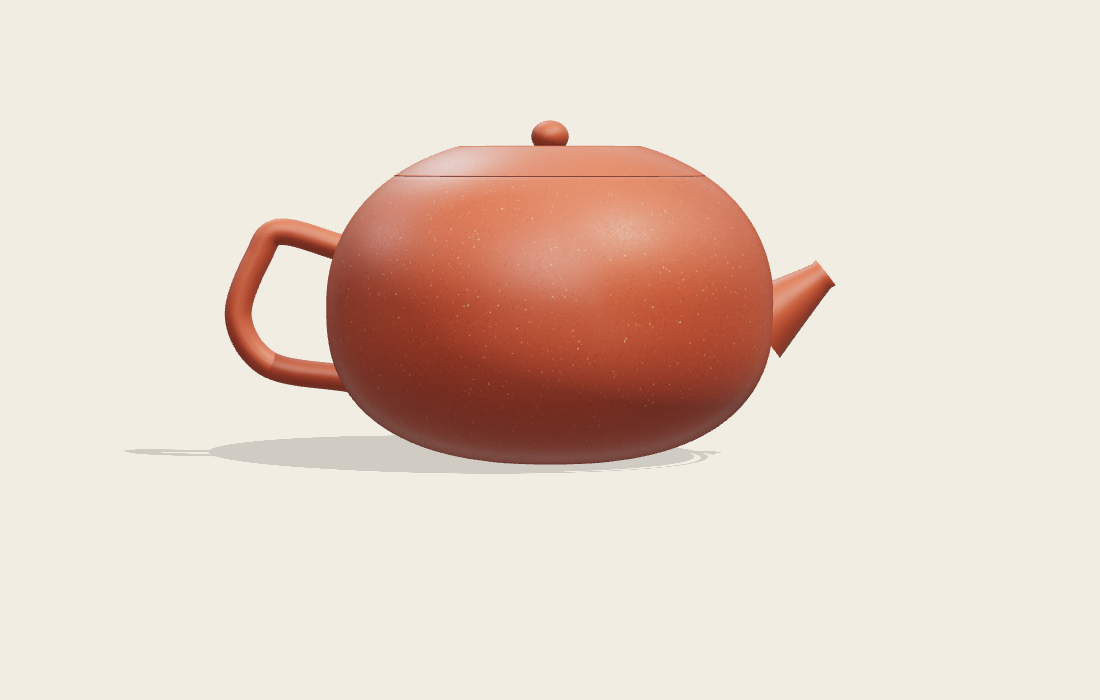
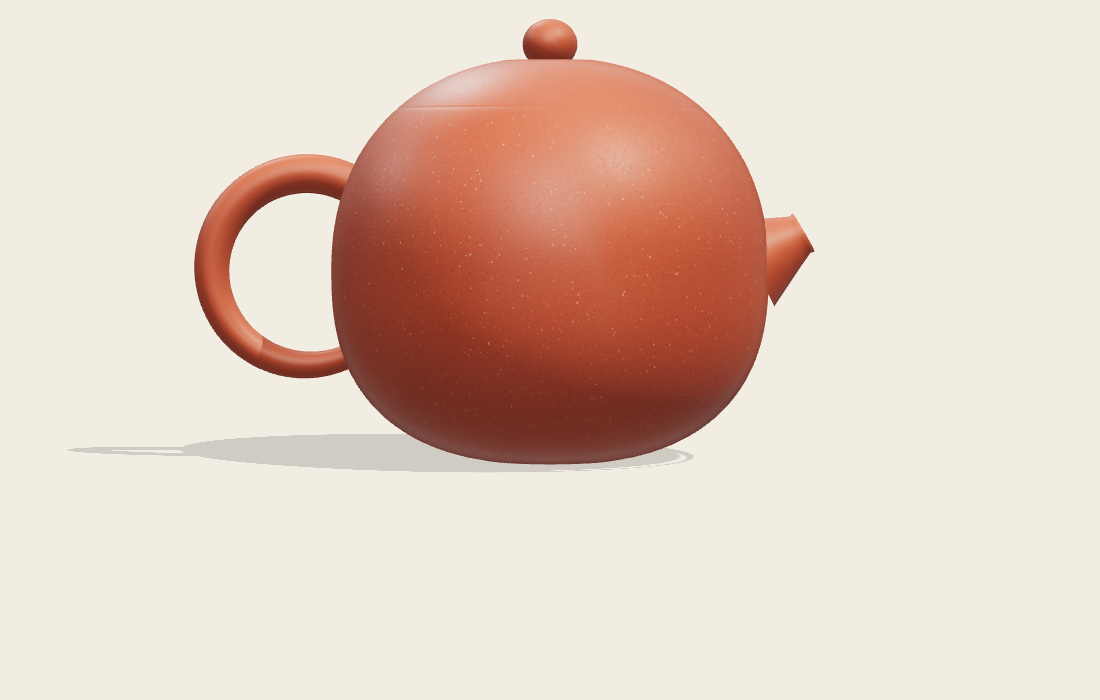
xishi: study real photographs, add the inverted-ear handle and a full 截盖 dome
Studied 倒把西施 photographs (zisha.com) against the canonical description
(截盖, 短流略粗, 倒耳把, 一捺底). Three features were wrong:

- the lid stopped short and left a flat top. It must run up the body's own
  curve until the ball is complete, converging to a neck the bead knob sits on;
  `rise` is now a fraction of the cap to the pole rather than an absolute height
- the spout was too long: shortened and thickened at the root
- the handle was the 石瓢 rear loop, which reads as a polyline. Added
  `invertedEar`: a true circular arc through the two attachments and the outer
  point, swept as a variable-radius tube (thick at the shoulder, tapering to the
  belly), so no straight segment can appear

Also fixed: the arc took the short way round, burying the handle inside the
body; and the body was too oblate (width/height 1.58 against about 1.25 in the
photographs).

Reference photographs kept in fit/refs/xishi/.

Claude-Session: https://claude.ai/code/session_01Au3NkrP4Zh9Vb2uEzJxxmj

diff --git a/src/components/handles.js b/src/components/handles.js
@@ -1,5 +1,51 @@
 import * as THREE from 'three'
 
+/** tube of varying radius along a curve (three's TubeGeometry is fixed-radius) */
+function sweptTube(curve, radiusAt, tubular = 72, radial = 16) {
+  const frames = curve.computeFrenetFrames(tubular, false)
+  const pos = [], nor = [], idx = []
+  for (let i = 0; i <= tubular; i++) {
+    const t = i / tubular
+    const P = curve.getPointAt(t)
+    const N = frames.normals[i]
+    const B = frames.binormals[i]
+    const r = radiusAt(t)
+    for (let j = 0; j <= radial; j++) {
+      const v = (j / radial) * Math.PI * 2
+      const sn = Math.sin(v), cs = -Math.cos(v)
+      const nx = cs * N.x + sn * B.x
+      const ny = cs * N.y + sn * B.y
+      const nz = cs * N.z + sn * B.z
+      nor.push(nx, ny, nz)
+      pos.push(P.x + r * nx, P.y + r * ny, P.z + r * nz)
+    }
+  }
+  for (let i = 1; i <= tubular; i++) {
+    for (let j = 1; j <= radial; j++) {
+      const a = (radial + 1) * (i - 1) + (j - 1)
+      const b = (radial + 1) * i + (j - 1)
+      const c = (radial + 1) * i + j
+      const d = (radial + 1) * (i - 1) + j
+      idx.push(a, b, d, b, c, d)
+    }
+  }
+  const g = new THREE.BufferGeometry()
+  g.setAttribute('position', new THREE.Float32BufferAttribute(pos, 3))
+  g.setAttribute('normal', new THREE.Float32BufferAttribute(nor, 3))
+  g.setIndex(idx)
+  return g
+}
+
+/** the circle through three points, as centre + radius */
+function circleThrough(A, B, C) {
+  const d = 2 * (A.x * (B.y - C.y) + B.x * (C.y - A.y) + C.x * (A.y - B.y))
+  const a2 = A.x * A.x + A.y * A.y, b2 = B.x * B.x + B.y * B.y, c2 = C.x * C.x + C.y * C.y
+  const ux = (a2 * (B.y - C.y) + b2 * (C.y - A.y) + c2 * (A.y - B.y)) / d
+  const uy = (a2 * (C.x - B.x) + b2 * (A.x - C.x) + c2 * (B.x - A.x)) / d
+  const centre = new THREE.Vector2(ux, uy)
+  return { centre, radius: centre.distanceTo(A) }
+}
+
 /**
  * 把 — handles. Each returns a mesh positioned relative to the body:
  * the builder receives the body profile (radiusAt / height) so the loop
@@ -8,6 +54,51 @@ import * as THREE from 'three'
 
 export const HANDLES = {
   none: { label: '无', params: {}, build: () => null },
+
+  invertedEar: {
+    label: '倒耳把',
+    // 西施's 倒把: a thick clay strap rolled into a round ear — thick where it
+    // meets the shoulder, tapering as it sweeps down to a thinner tail at the
+    // belly. Built on a true circular arc so no straight segment can appear.
+    params: {
+      tube: { label: '把粗', min: 0.03, max: 0.12, step: 0.002, default: 0.075 },
+      taper: { label: '把梢', min: 0.35, max: 1.0, step: 0.02, default: 0.6 },
+      outerX: { label: '外缘', min: 0.8, max: 2.0, step: 0.01, default: 1.30 },
+      topY: { label: '上接', min: 0.45, max: 1.0, step: 0.01, default: 0.78 },
+      botY: { label: '下接', min: 0.08, max: 0.6, step: 0.01, default: 0.30 },
+      loopY: { label: '环心高', min: 0.2, max: 0.9, step: 0.01, default: 0.52 },
+    },
+    build(p, prof, material) {
+      const H = prof.height
+      const A = new THREE.Vector2(-(prof.radiusAt(H * p.topY) - 0.035), H * p.topY)
+      const B = new THREE.Vector2(-(prof.radiusAt(H * p.botY) - 0.035), H * p.botY)
+      const C = new THREE.Vector2(-p.outerX, H * p.loopY)
+      const { centre, radius } = circleThrough(A, B, C)
+      const ang = (v) => Math.atan2(v.y - centre.y, v.x - centre.x)
+      const a0 = ang(A)
+      const wrap = (x) => {
+        while (x <= -Math.PI) x += Math.PI * 2
+        while (x > Math.PI) x -= Math.PI * 2
+        return x
+      }
+      // go the way round that passes through the outer point, not the short way
+      // (the short way runs through the body and buries the handle inside it)
+      let delta = wrap(ang(B) - a0)
+      const dc = wrap(ang(C) - a0)
+      if (!(Math.sign(dc) === Math.sign(delta) && Math.abs(dc) < Math.abs(delta))) {
+        delta -= Math.sign(delta) * Math.PI * 2
+      }
+      const pts = []
+      const N = 64
+      for (let i = 0; i <= N; i++) {
+        const a = a0 + delta * (i / N)
+        pts.push(new THREE.Vector3(centre.x + radius * Math.cos(a), centre.y + radius * Math.sin(a), 0))
+      }
+      const curve = new THREE.CatmullRomCurve3(pts, false, 'centripetal')
+      const geo = sweptTube(curve, (t) => p.tube * (1 - (1 - p.taper) * t * t))
+      return new THREE.Mesh(geo, material)
+    },
+  },
 
   rearLoop: {
     label: '端把',

diff --git a/src/components/lids.js b/src/components/lids.js
@@ -46,14 +46,17 @@ export const LIDS = {
     // well proportioned, reads as the wrong family.
     params: {
       thickness: { label: '盖厚', min: 0.02, max: 0.09, step: 0.002, default: 0.04 },
-      rise: { label: '盖高', min: 0.03, max: 0.4, step: 0.005, default: 0.16 },
+      rise: { label: '盖高', min: 0.3, max: 1.0, step: 0.01, default: 0.94 },  // fraction of the cap to the pole
       vent: { label: '气孔', min: 0, max: 0.03, step: 0.001, default: 0.012 },
     },
-    top: (p) => p.rise,
+    top: (p, prof) => (prof?.capLimit ?? 0.18) * p.rise,
     build(p, mouthR, material, prof) {
       const v = Math.max(p.vent, 0.004)
       const T = p.thickness
-      const rise = prof?.capLimit ? Math.min(p.rise, prof.capLimit * 0.92) : p.rise
+      // `rise` is how far up the body's own curve the lid runs: near 1 the ball
+      // is completed and the dome converges to a neck for the knob — a flat top
+      // would read as the wrong family
+      const rise = (prof?.capLimit ?? 0.18) * p.rise
       const cap = []
       const N = 26
       for (let i = 0; i <= N; i++) {

diff --git a/src/components/index.js b/src/components/index.js
@@ -78,7 +78,7 @@ export function buildVessel(spec, material) {
     raised.add(lidMesh)
     const knobMesh = knob.def.build(knob.p, material)
     if (knobMesh) {
-      knobMesh.position.y += prof.height + lid.def.top(lid.p) - 0.006
+      knobMesh.position.y += prof.height + lid.def.top(lid.p, prof) - 0.006
       raised.add(knobMesh)
     }
   }

diff --git a/README.md b/README.md
@@ -167,7 +167,7 @@ Families so far:
 | family | primitive | what makes it that family |
 |---|---|---|
 | 石瓢 | `cone` | a cone with the tip cut off: widest at the foot, flank never widening upward, straight within 3%; flat lid, bridge knob, straight spout, three feet |
-| 西施 | `superellipse` | fuller than an ellipse and asymmetric top to bottom; widest near mid-height, wider than tall, no straight run anywhere in the flank; a wide mouth closed by a **截盖** lid cut from the body's own curve — so the silhouette never breaks — bead knob, flat footless base |
+| 西施 | `superellipse` | fuller than an ellipse and asymmetric top to bottom; widest near mid-height, wider than tall, no straight run anywhere in the flank; a wide mouth closed by a **截盖** lid that runs up the body's own curve until the ball is complete (a flat-topped lid reads as the wrong family), a bead knob on the neck it converges to, a **短流略粗** spout, a fully-round **倒耳把** thick at the shoulder and tapering to the belly, flat footless base |
 
 The 西施 case is the interesting one: you cannot name its shape (it is not a
 sphere, and an ellipse reads as cheap), but you *can* name its relations, and
